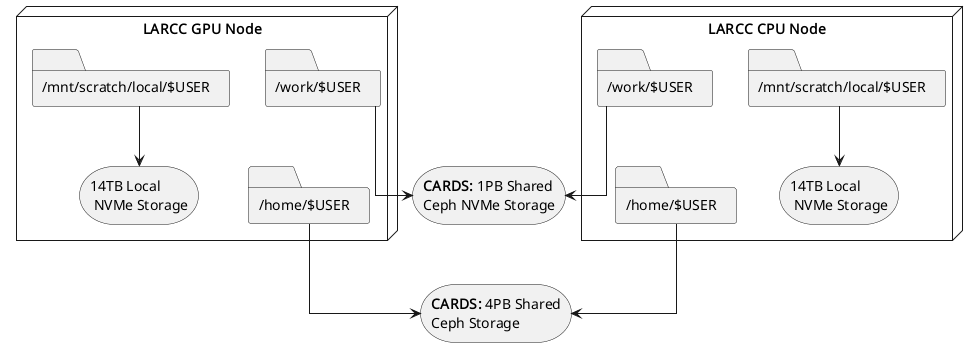
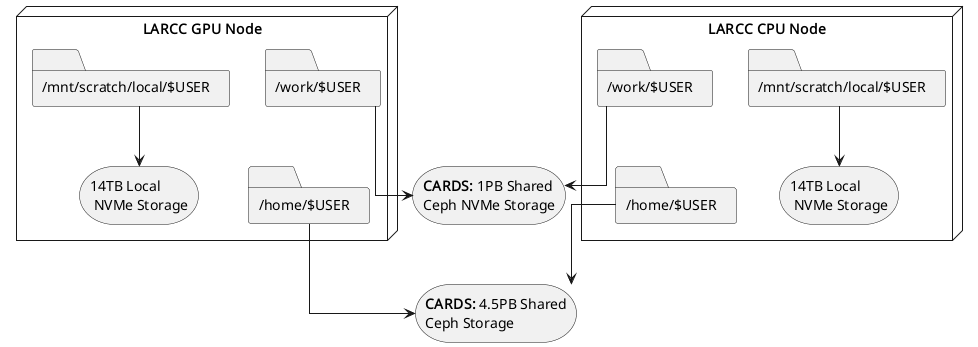
storage guide fix

diff --git a/guides/storage/index.rst b/guides/storage/index.rst
@@ -35,8 +35,8 @@ Storage Types
 ``work`` Storage
 ^^^^^^^^^^^^^^^^
 - **Shared accross all nodes**: Accessible from any compute node in the system.
-- **Large capacity**: Designed to store users datasets across multiple nodes
-- **Slower Access**: due to its shared nature, read/write operationsa are generally slower than ``scratch`` storage
+- **Purpose**: Fast access to large data from the compute nodes.
+- **Slower Access**: due to its shared nature, read/write operations are generally slower than ``scratch`` storage
 - **Low Latency**: Backed by NVMe rather than slower Hard Drives, ``work`` has lower-latency than a users ``home`` storage.
 - **Data retention policy**: Data is subject to removal after not having been accessed within 30 days
 
